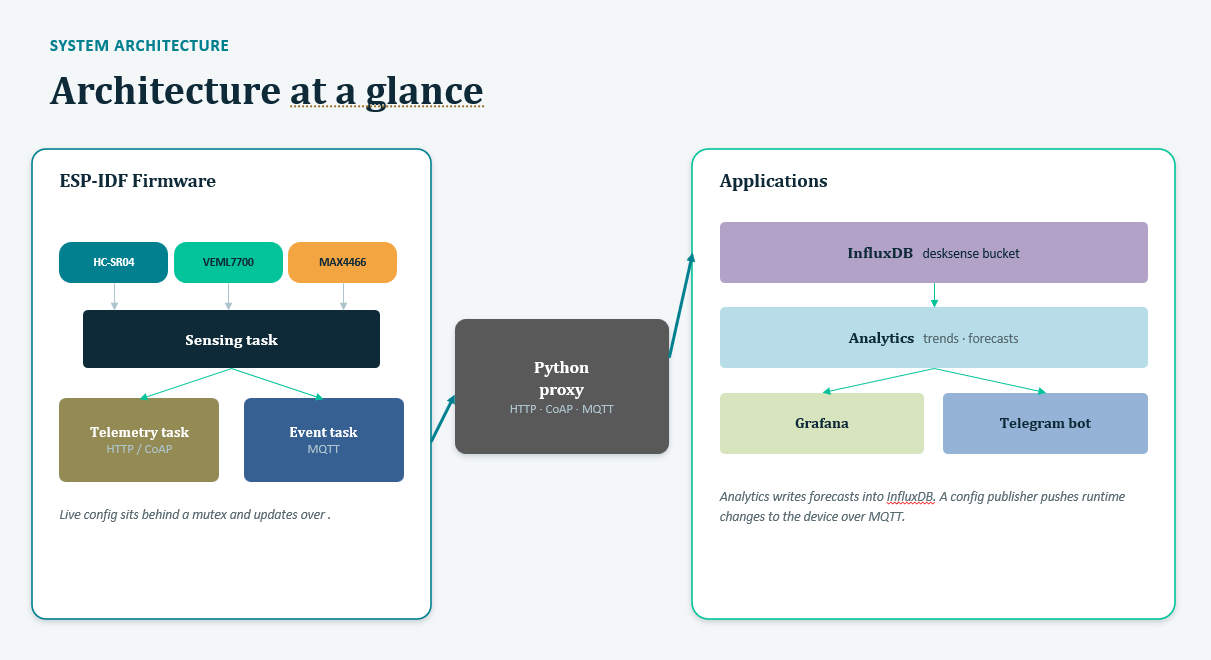
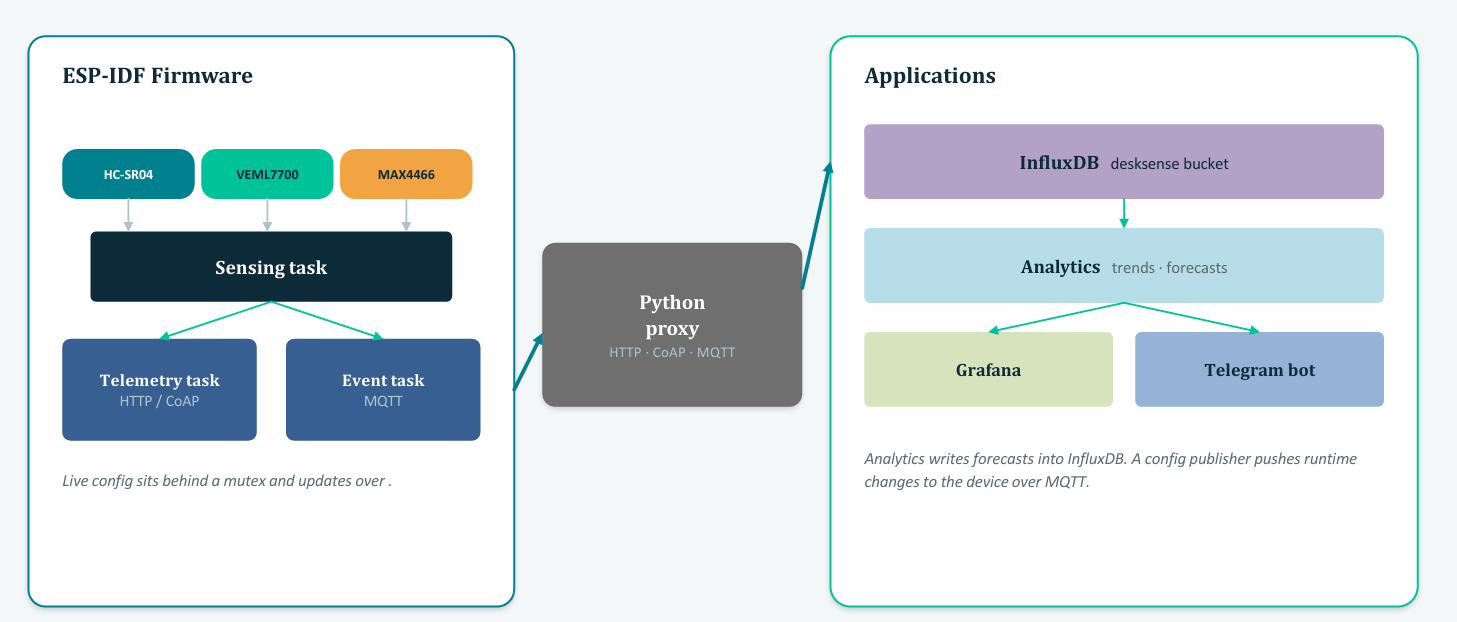
Update architecture diagrams

diff --git a/README.md b/README.md
@@ -27,6 +27,14 @@ telemetry (HTTP/CoAP) and event (MQTT) tasks. A Python proxy ingests telemetry,
 writes it to InfluxDB, and feeds Grafana dashboards, analytics, and a Telegram
 bot. Runtime configuration is pushed back to the device over MQTT.
 
+### Firmware task pipeline
+
+![FreeRTOS task pipeline](docs/images/firmware-tasks.png)
+
+Inside the firmware, one sensing task reads all three sensors and passes each
+reading through FreeRTOS queues to two independent tasks: a telemetry task that
+sends data over HTTP/CoAP, and an event-publish task that emits MQTT events.
+
 ## Main Features
 
 - Desk occupancy detection using an HC-SR04 ultrasonic sensor
@@ -53,6 +61,8 @@ bot. Runtime configuration is pushed back to the device over MQTT.
 | `docs/` | Project report |
 
 ## Hardware Setup
+
+![ESP32 sensor wiring](docs/images/hardware-wiring.png)
 
 | Sensor | ESP32 connection |
 |---|---|